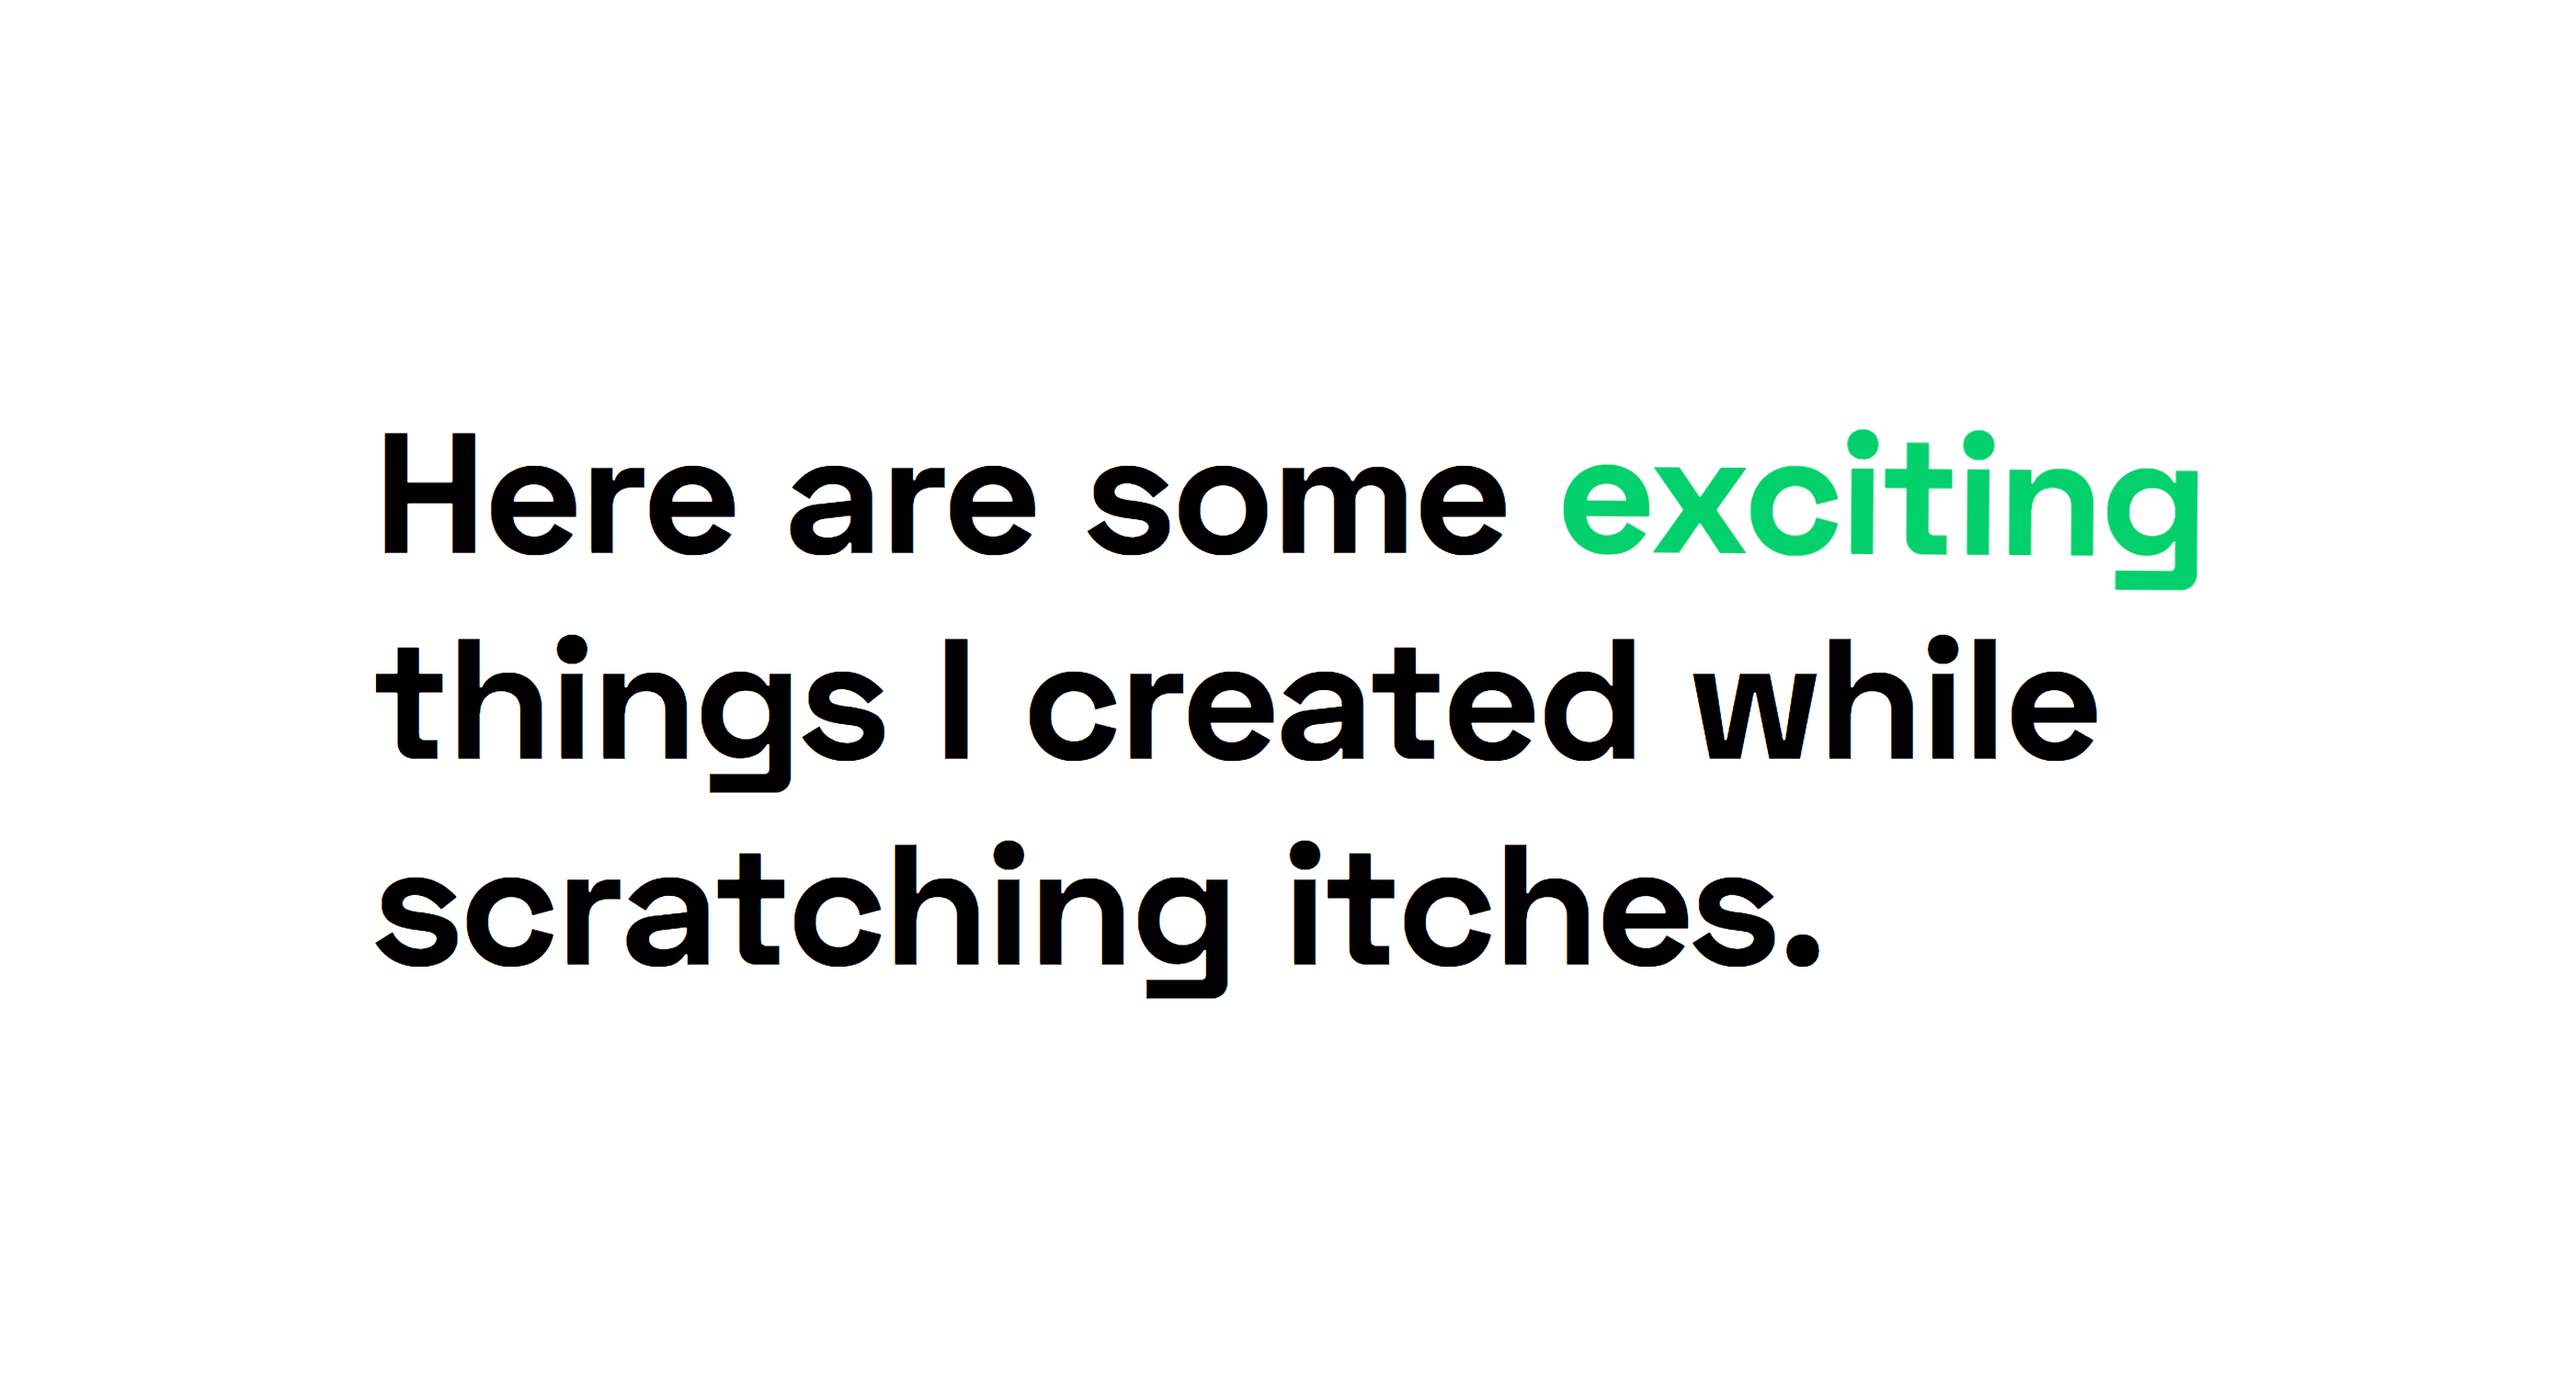
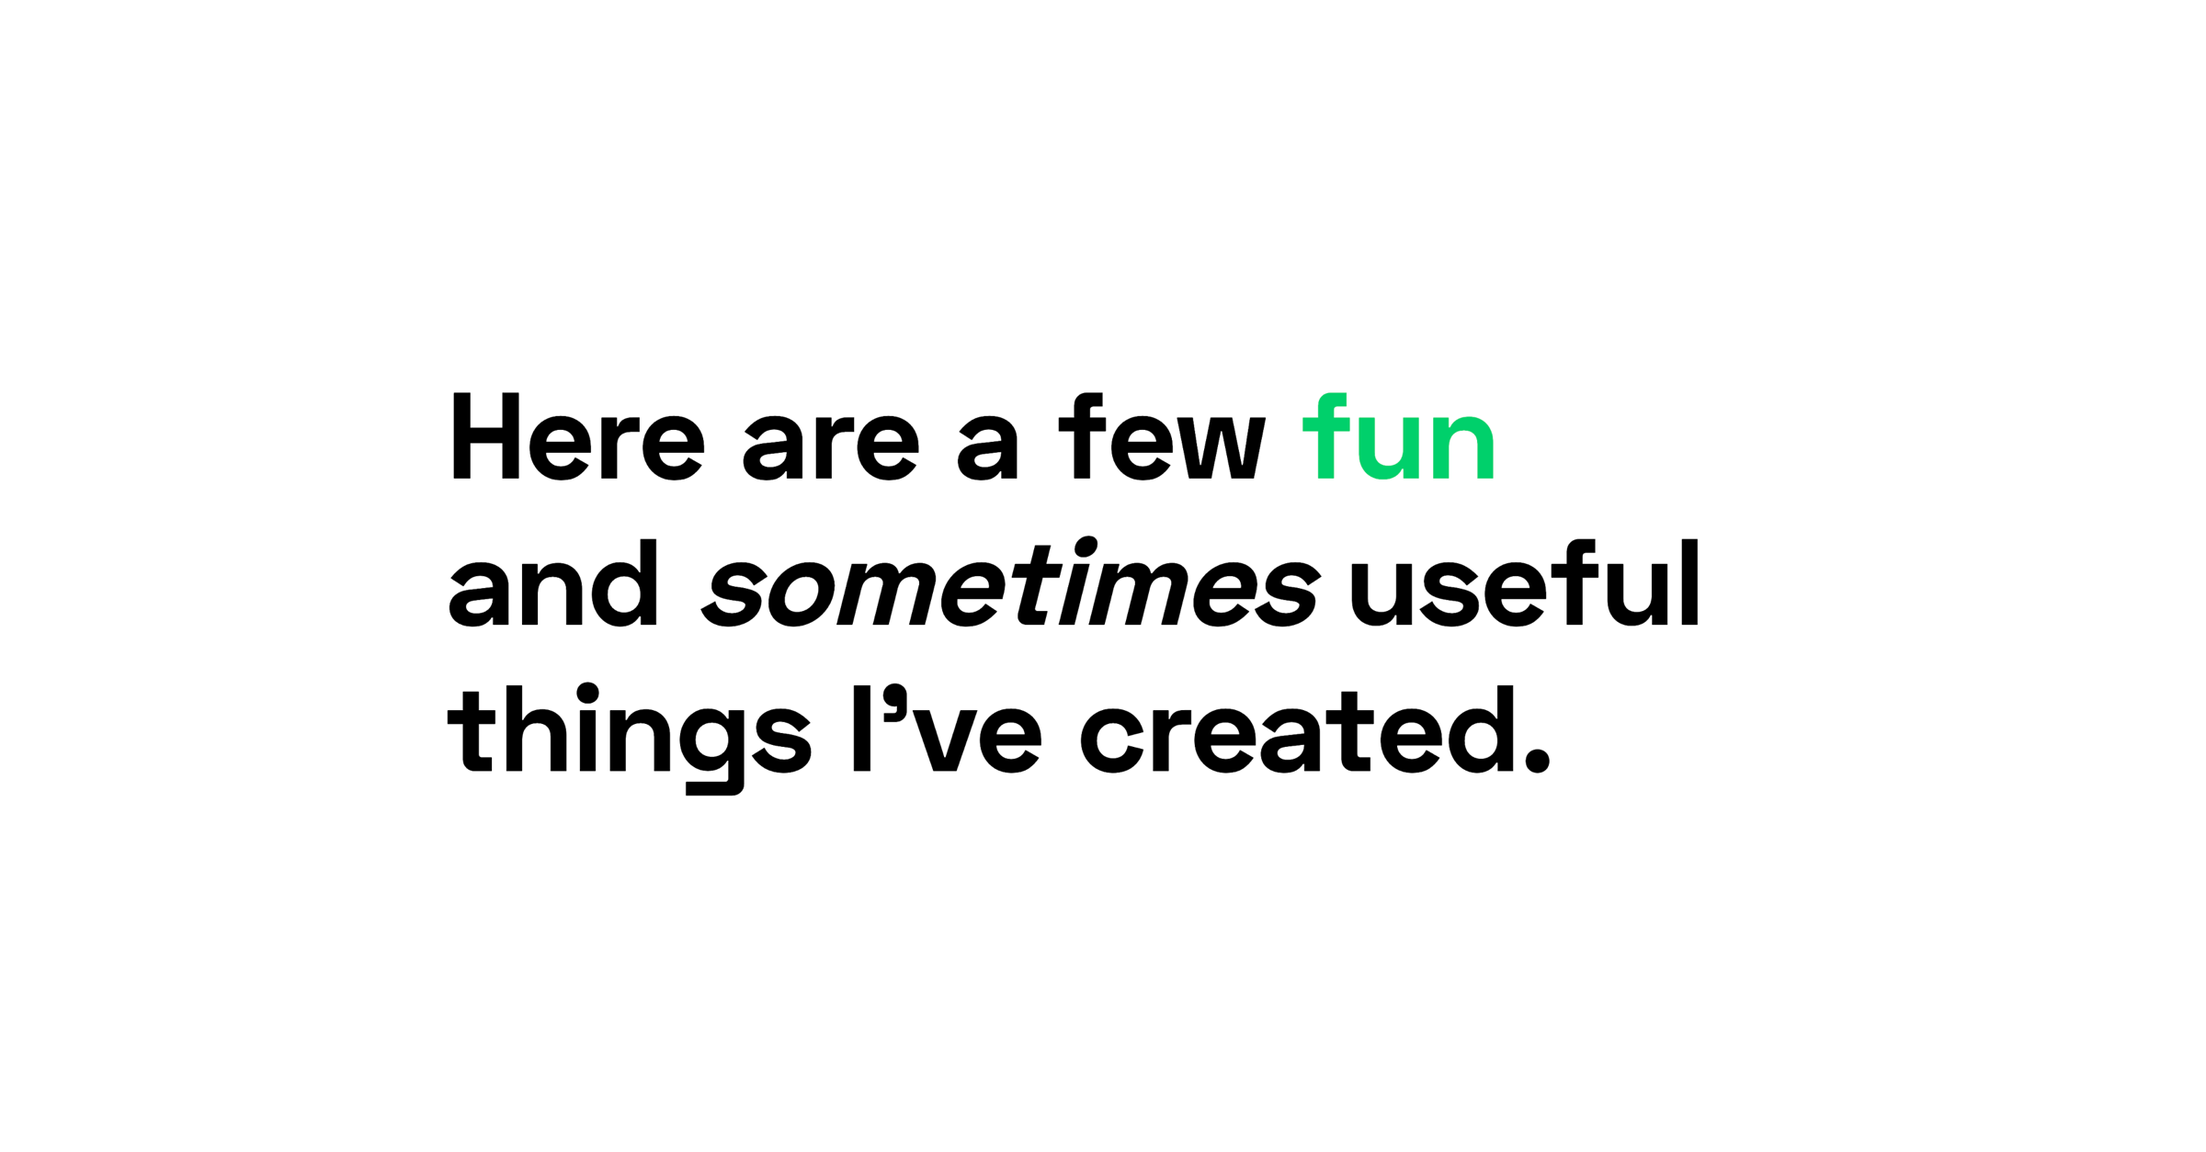
notice added & copy updates

Changed region(s): [[0.125, 0.5909, 0.7188, 0.7464], [0.125, 0.4354, 0.8125, 0.5909], [0.125, 0.311, 0.875, 0.4354]]

diff --git a/src/index.html b/src/index.html
@@ -6,7 +6,7 @@
     <meta name="viewport" content="width=device-width, initial-scale=1, shrink-to-fit=no">
     <title>Mattias Hemmingsson</title>
     <link rel="stylesheet" href="scss/main.scss">
-    <meta name="description" content="Fun and sometimes usefull things I created">
+    <meta name="description" content="Fun and sometimes usefull things I've created">
     <meta name="robots" content="index,follow">
     <meta name="googlebot" content="index,follow">
     <meta property="og:image" content="./static/social-image.png" />
@@ -25,8 +25,7 @@
             <section class="preview">
                 <img src="static/dmwtf.svg" loading="lazy">
             </section>
-            <p class="description"> There are many different sub-genres in the electronic dance music scene, it's hard to distinguish between them - even for music lovers. 
-                This game is created to educate myself and others on this.</p>
+            <p class="description">There are numerous sub-genres in electronic dance music, which makes it hard to distinguish between them - even for music lovers. This game was created to educate myself and others in this.</p>
             <ul class="links">
                 <li>
                     <a class="button primary" href="http://dancemusic.wtf/?mattias.lol">Play Game</a>
@@ -56,7 +55,7 @@
             <section class="preview">
                 <img src="static/systembolaget+.jpg" loading="lazy">
             </section>
-            <p class="description">It's hard to know what's good when browsing Systembolaget. This Chrome extension adds <a href="https://www.vivino.com">Vivino</a> ratings to wine, <a href="https://untappd.com/">Untappd</a> ratings to beer and <a href="https://distiller.com/">Distiller</a> ratings to liquors. Helping me make better decisions.</span>
+            <p class="description">It's tough to know what's good when browsing Systembolaget. This Chrome extension adds <a href="https://www.vivino.com">Vivino</a> ratings to wine, <a href="https://untappd.com/">Untappd</a> ratings to beer, and <a href="https://distiller.com/">Distiller</a> ratings to liquors. Helping me make more informed&nbsp;decisions.</span>
             </p>
             <ul class="links">
                 <ul class="links">
@@ -75,8 +74,8 @@
                 <img class="mobile hidden" loading="lazy" src="static/facepause.gif">
                 <video loop playsinline autoplay muted data-src="./static/facepause.mp4">
             </section>
-            <p class="description">Look away to pause YouTube videos. When Chrome released its FaceDetector API, I built this experiemntal extension to see how good it was. It turns out it works pretty well. <span
-                    class="notice">Removed from the Chrome web store, installing manually might still work.</span>
+            <p class="notice">Removed from the Chrome web store, installing manually still might work.</p>
+            <p class="description">Look away to pause YouTube videos. When Chrome released its FaceDetector API, I built this experimental extension to evaluate how good it was. Turns out it works pretty well.
             </p>
             <ul class="links">
                 <li>
@@ -112,7 +111,7 @@
                 <img class="mobile hidden" loading="lazy" src="static/springsteen.gif">
                 <video loop playsinline autoplay muted data-src="static/springsteen.mp4">
             </section>
-            <p class="description">Spring physics makes animations on the web more fluid and organic. But it's not easy to understand the outcome based on the input values while coding. This interface let’s you find the perfect combination of values for <a href="https://animejs.com/">anime.js</a>.</p>
+            <p class="description">Spring physics makes animations on the web more fluid and organic. But it's not easy to understand the outcome based on the input values while coding. This interface lets you find the perfect combination of values for <a href="https://animejs.com/">anime.js</a>.</p>
             <ul class="links">
                 <li>
                     <a class="button primary"
@@ -125,8 +124,8 @@
             <section class="preview">
                 <img src="static/friskvardsbidrag.jpg" loading="lazy">
             </section>
-            <p class="description">The guidlines for wellness allowance in Sweden are very arbitrary. This is a little quiz
-                game trying to highlight that. </span>
+            <p class="description">The policies for wellness allowance in Sweden are very arbitrary. This little quiz
+                game is trying to highlight that. </span>
             </p>
             <ul class="links">
                 <ul class="links">
@@ -147,7 +146,7 @@
             <section class="preview">
                 <img src="static/palladio.jpg" loading="lazy">
             </section>
-            <p class="description">Palladian architecture is beutiful and repetitive. This application lets you generate that type of architecture. Created over some beers with my good friend <a href="https://christians.design/">Christian</a>.</span>
+            <p class="description">Palladian architecture is repetitive but but captivating. This application lets you generate and play with architecture similar to that. Created over some beers with my good friend <a href="https://christians.design/">Christian</a>.</span>
             </p>
             <ul class="links">
                 <ul class="links">
@@ -166,9 +165,10 @@
                 <img loading="lazy"
                     src="https://camo.githubusercontent.com/cd8b5b88440ffe6415de6049a377abf649645c68/68747470733a2f2f692e696d6775722e636f6d2f5946506b37564f2e6a7067">
             </section>
-            <p class="description">Soundcloud is full of great mixtapes, but it can be hard to judge what kind of music
+            <p class="notice warning">Soundcloud closed their API, this doesn't work anymore.</p>
+            <p class="description">Soundcloud is full of excellent mixtapes, but it can be hard to judge what kind of music
                 they contain. This extension plays short audio samples from different parts in the mixtape before you
-                hit play. <span class="notice">Soundcloud closed their API, this doesn't work anymore.</span>
+                hit play.
             </p>
             <ul class="links">
                 <li>
@@ -198,8 +198,8 @@
                     <video loop autoplay muted data-src="https://i.imgur.com/JI7DpWL.mp4">
                 </div>
             </section>
-            <p class="description">Freeze replaces the new tab page with a mesmerizing cinemagraph every time you open
-                a new tab. <span class="link fetch">Click here</span> to fetch
+            <p class="description">Freeze replaces the new tab page with mesmerizing cinematography every time you open
+                a new tab. At this moment there are <span class="count">400+</span> curated cinemagraphs in total. <span class="link fetch">Click here</span> to fetch
                 another one. </p>
             <ul class="links">
                 <li>
@@ -215,7 +215,7 @@
     </main>
     <footer>
         <div class="wrapper">
-            <h3>Besides these projects I have helpt companies designed & developed products for over 10 years.
+            <h3>Besides these projects, I have helped companies design & developed products for over 10 years.
                 I&nbsp;also went to Hyper&nbsp;Island. </h3>
             <article class="work">
                 <p class="year">2022 →</p>

diff --git a/src/scss/sections/_project.scss b/src/scss/sections/_project.scss
@@ -20,16 +20,24 @@
     .description {
         margin: $spacing-m 0;
     }
-    .notice {
-        color: $color-danger;
-    }
     .links {
         li {
             display: inline-block;
 
-            margin-right: .2em;
+            margin-right: .1em;
             margin-bottom: .6em;
         }
+    }
+    .notice {
+        font-size: .6em;
+        font-weight: 300;
+
+        padding: .4em;
+
+        text-align: center;
+
+        color: $color-warning;
+        background-color: rgb(234 161 0 / 30%);
     }
 }
 

diff --git a/src/js/fetch-cinemagraph.js b/src/js/fetch-cinemagraph.js
@@ -9,6 +9,12 @@ const init = () => {
 
   $fetchButton.addEventListener('click', fetchNewCinemgraph)
   $player.addEventListener('error', fetchNewCinemgraph)
+
+  const cinemagraphs = getDataBase().then(data =>{
+    document.querySelector('.freeze .count').innerText = data.length + 1
+  })
+
+
 }
 
 const fetchNewCinemgraph = () => {

diff --git a/src/scss/config/_variables.scss b/src/scss/config/_variables.scss
@@ -8,6 +8,7 @@ $color-gray: #b9b9b9;
 $color-bege: #eee6b6;
 $color-black: #000;
 $color-danger: #920031;
+$color-warning: #b07900;
 // Shaodws
 $shadow: 0 2px 70px 0 rgba(34, 49, 102, .1);
 $spacing-xl: 7rem;
